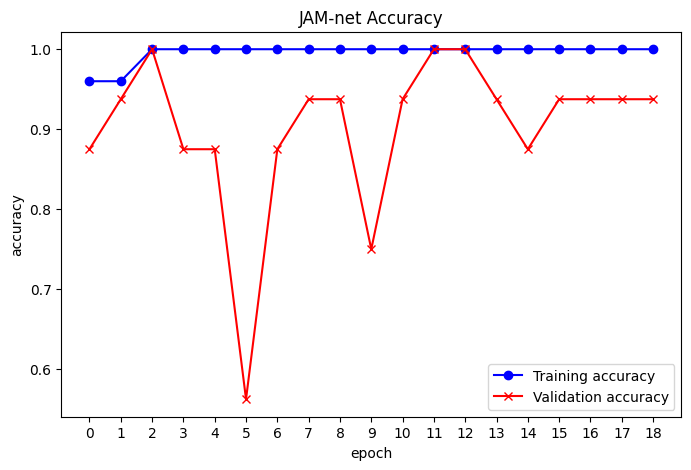
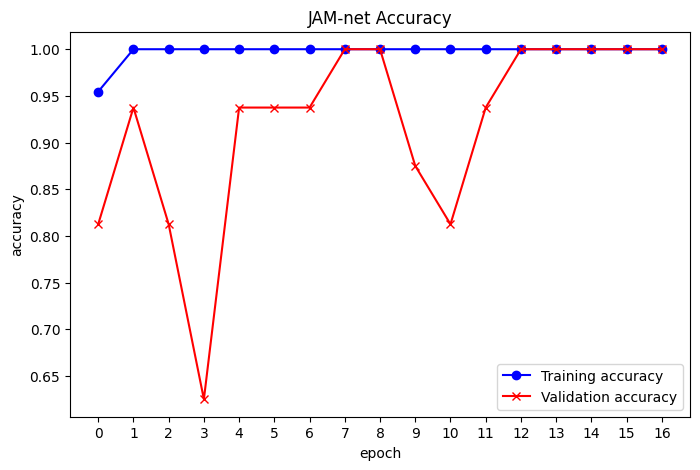
Read Me v10

diff --git a/README.md b/README.md
@@ -20,13 +20,16 @@ As in the literature [1], we have performed a preprocessing operation on images 
 ![Alt Text](images/Filtering.jpg)
 
 # Results
-The training of the network is done with a **batch_size=48**, **early_stopping** monitoring the validation loss with a **threshold = 1e-4** and a **patience = 2**, the optimizer is **AdamW** with a **lr = 0.0001** and finally the loss function is the **Binary Cross Entropy Loss**. The metrics that we measure to validate the model are **Accuracy**, **Precision**, **Recall**, **AUROC** and **F1-Score**. We compare the results with the SOTA model [2] in the best preprocessing that is the 
-**Gaussian + He** technique: 
+The training of the network is done with a **batch_size=48**, **early_stopping** monitoring the validation loss with a **threshold = 1e-4** and a **patience = 2**, the optimizer is **AdamW** with a **lr = 0.0001** and finally the loss function is the **Binary Cross Entropy Loss**. The metrics that we measure to validate the model are **Accuracy**, **Precision**, **Recall**, **AUROC** and **F1-Score**. We compare the results with the SOTA model [2] without preprocessing:
+
+**Performances comparison**
+
+<img src="images/tab_no_prep.png" alt="Alt Text" width="400">
 
 
-**Confusion Matrix in Gaussian + He**
+**Confusion Matrix**
 
-<img src="images/cm.png" alt="Alt Text" width="300">
+<img src="images/cm.png" alt="Alt Text" width="400">
 
 
 **Loss Function**
